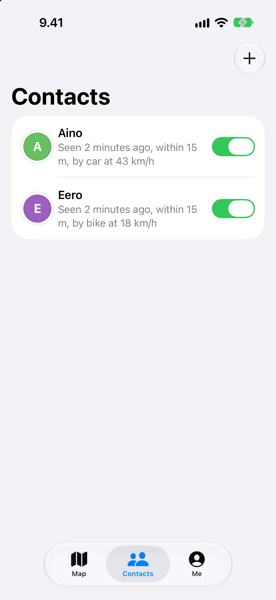
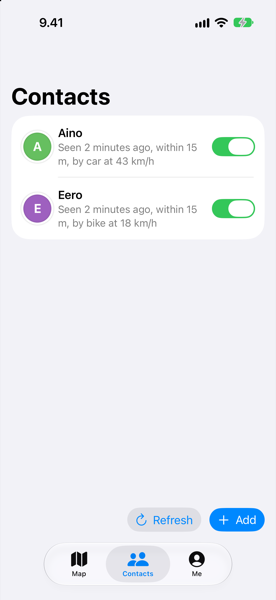
Move Contacts' Refresh and Add and the sheet buttons down
Refresh and Add sat at the top of the Contacts screen, out of reach of
the thumb on a phone. Both now sit at the bottom right, above the tab
bar, like the map's framing button. On iOS the Add contact sheet, the
QR scanner and the photo crop had Cancel, Add and Choose in the top
bar; they move to the bottom too, as wide buttons. iOS keeps pull to
refresh as well. Android's dialogs had their buttons at the bottom
already.

CLAUDE.md gains the rule that controls go at the bottom of the screen,
or at least never in the top bar. The README and the App Review notes
say Add where they said +, and the Contacts screenshots for the README
and both stores are redone.

Build 11 for TestFlight and version code 8 for closed testing.

Prompts behind this commit, as given to Claude Code
(model claude-opus-5-5, effort xhigh):

51.
> contacts refresh and add button are in top of the screen. put them
> and future interactable things bottom for a phone app like this or at
> least not in top

(Move the iOS sheets' top-bar buttons to the bottom too?)
> Move them too (Recommended)

diff --git a/ios/Mismeet/UI/PhotoCropView.swift b/ios/Mismeet/UI/PhotoCropView.swift
@@ -21,65 +21,67 @@ struct PhotoCropView: View {
     private var cover: CGFloat { side / min(image.size.width, image.size.height) }
 
     var body: some View {
-        NavigationStack {
-            let scale = cover * min(max(zoom * gestureZoom, 1), Self.maxZoom)
-            let shown = clamp(CGSize(width: offset.width + gestureOffset.width, height: offset.height + gestureOffset.height), scale: scale)
-            // The picture is an overlay, so its zoomed size never stretches the area the circle is measured from.
-            Color.black
-                .overlay {
-                    Image(uiImage: image)
-                        .resizable()
-                        .frame(width: image.size.width * scale, height: image.size.height * scale)
-                        .offset(shown)
-                }
-                .overlay {
-                    Rectangle()
-                        .fill(.black.opacity(0.6))
-                        .overlay { Circle().frame(width: side, height: side).blendMode(.destinationOut) }
-                        .compositingGroup()
-                }
-                .overlay {
-                    Circle()
-                        .stroke(.white, lineWidth: 2)
-                        .frame(width: side, height: side)
-                }
-                .clipped()
-            .contentShape(Rectangle())
-            .onGeometryChange(for: CGSize.self) { $0.size } action: { area = $0 }
-            .gesture(
-                MagnifyGesture()
-                    .updating($gestureZoom) { value, state, _ in state = value.magnification }
-                    .onEnded { value in
-                        zoom = min(max(zoom * value.magnification, 1), Self.maxZoom)
-                        offset = clamp(offset, scale: cover * zoom)
-                    }
-                    .simultaneously(with: DragGesture()
-                        .updating($gestureOffset) { value, state, _ in state = value.translation }
-                        .onEnded { value in
-                            offset = clamp(
-                                CGSize(width: offset.width + value.translation.width, height: offset.height + value.translation.height),
-                                scale: cover * zoom
-                            )
-                        }
-                    )
-            )
-            .background(.black)
-            .toolbarBackground(.black, for: .navigationBar)
-            .toolbarBackground(.visible, for: .navigationBar)
-            .toolbarColorScheme(.dark, for: .navigationBar)
-            .toolbar {
-                ToolbarItem(placement: .cancellationAction) {
-                    Button("Cancel") { dismiss() }
-                }
-                ToolbarItem(placement: .confirmationAction) {
-                    Button("Choose") {
-                        if let square = crop() { onChoose(square) }
-                        dismiss()
-                    }
-                    .disabled(area == .zero)
-                }
+        let scale = cover * min(max(zoom * gestureZoom, 1), Self.maxZoom)
+        let shown = clamp(CGSize(width: offset.width + gestureOffset.width, height: offset.height + gestureOffset.height), scale: scale)
+        // The picture is an overlay, so its zoomed size never stretches the area the circle is measured from.
+        Color.black
+            .overlay {
+                Image(uiImage: image)
+                    .resizable()
+                    .frame(width: image.size.width * scale, height: image.size.height * scale)
+                    .offset(shown)
             }
+            .overlay {
+                Rectangle()
+                    .fill(.black.opacity(0.6))
+                    .overlay { Circle().frame(width: side, height: side).blendMode(.destinationOut) }
+                    .compositingGroup()
+            }
+            .overlay {
+                Circle()
+                    .stroke(.white, lineWidth: 2)
+                    .frame(width: side, height: side)
+            }
+            .clipped()
+        .contentShape(Rectangle())
+        .onGeometryChange(for: CGSize.self) { $0.size } action: { area = $0 }
+        .gesture(
+            MagnifyGesture()
+                .updating($gestureZoom) { value, state, _ in state = value.magnification }
+                .onEnded { value in
+                    zoom = min(max(zoom * value.magnification, 1), Self.maxZoom)
+                    offset = clamp(offset, scale: cover * zoom)
+                }
+                .simultaneously(with: DragGesture()
+                    .updating($gestureOffset) { value, state, _ in state = value.translation }
+                    .onEnded { value in
+                        offset = clamp(
+                            CGSize(width: offset.width + value.translation.width, height: offset.height + value.translation.height),
+                            scale: cover * zoom
+                        )
+                    }
+                )
+        )
+        .safeAreaInset(edge: .bottom) {
+            HStack(spacing: 12) {
+                Button { dismiss() } label: {
+                    Text("Cancel").frame(maxWidth: .infinity)
+                }
+                .buttonStyle(.bordered)
+                Button {
+                    if let square = crop() { onChoose(square) }
+                    dismiss()
+                } label: {
+                    Text("Choose").frame(maxWidth: .infinity)
+                }
+                .buttonStyle(.borderedProminent)
+                .disabled(area == .zero)
+            }
+            .controlSize(.large)
+            .padding()
         }
+        .background(.black)
+        .preferredColorScheme(.dark)
     }
 
     /// Keeps the picture covering the whole circle.

diff --git a/ios/Mismeet/UI/ContactsView.swift b/ios/Mismeet/UI/ContactsView.swift
@@ -28,10 +28,18 @@ struct ContactsView: View {
                 }
             }
             .navigationTitle("Contacts")
-            .toolbar {
-                ToolbarItem(placement: .primaryAction) {
+            .safeAreaInset(edge: .bottom) {
+                HStack(spacing: 12) {
+                    Spacer()
+                    Button("Refresh", systemImage: "arrow.clockwise") {
+                        Task { await model.refresh() }
+                    }
+                    .buttonStyle(.bordered)
+                    .disabled(model.isRefreshing)
                     Button("Add", systemImage: "plus") { adding = AddRequest() }
+                        .buttonStyle(.borderedProminent)
                 }
+                .padding()
             }
             .refreshable { await model.refresh() }
             .sheet(item: $adding) { AddContactView(invite: $0.invite) }
@@ -163,31 +171,40 @@ struct AddContactView: View {
                         scanning = false
                     }
                     .ignoresSafeArea()
+                    .safeAreaInset(edge: .bottom) {
+                        Button("Cancel") { scanning = false }
+                            .buttonStyle(.borderedProminent)
+                            .controlSize(.large)
+                            .padding()
+                    }
                     .navigationTitle("Scan the invite")
                     .navigationBarTitleDisplayMode(.inline)
-                    .toolbar {
-                        ToolbarItem(placement: .cancellationAction) {
-                            Button("Cancel") { scanning = false }
-                        }
-                    }
                 }
             }
-            .toolbar {
-                ToolbarItem(placement: .cancellationAction) {
-                    Button("Cancel") { dismiss() }
-                }
-                ToolbarItem(placement: .confirmationAction) {
-                    Button("Add") {
-                        do {
-                            try model.addContact(invite: invite, name: name)
-                            dismiss()
-                        } catch {
-                            self.error = error.localizedDescription
-                        }
+            .safeAreaInset(edge: .bottom) {
+                HStack(spacing: 12) {
+                    Button { dismiss() } label: {
+                        Text("Cancel").frame(maxWidth: .infinity)
                     }
+                    .buttonStyle(.bordered)
+                    Button { add() } label: {
+                        Text("Add").frame(maxWidth: .infinity)
+                    }
+                    .buttonStyle(.borderedProminent)
                     .disabled(invite.trimmingCharacters(in: .whitespacesAndNewlines).isEmpty)
                 }
+                .controlSize(.large)
+                .padding()
             }
+        }
+    }
+
+    private func add() {
+        do {
+            try model.addContact(invite: invite, name: name)
+            dismiss()
+        } catch {
+            self.error = error.localizedDescription
         }
     }
 }

diff --git a/android/app/src/main/kotlin/app/mismeet/android/ui/ContactsScreen.kt b/android/app/src/main/kotlin/app/mismeet/android/ui/ContactsScreen.kt
@@ -13,6 +13,7 @@ import androidx.compose.foundation.clickable
 import androidx.compose.foundation.layout.Arrangement
 import androidx.compose.foundation.layout.Column
 import androidx.compose.foundation.layout.Row
+import androidx.compose.foundation.layout.fillMaxSize
 import androidx.compose.foundation.layout.fillMaxWidth
 import androidx.compose.foundation.layout.padding
 import androidx.compose.foundation.layout.size
@@ -22,6 +23,7 @@ import androidx.compose.material3.AlertDialog
 import androidx.compose.material3.Button
 import androidx.compose.material3.Card
 import androidx.compose.material3.MaterialTheme
+import androidx.compose.material3.OutlinedButton
 import androidx.compose.material3.OutlinedTextField
 import androidx.compose.material3.Switch
 import androidx.compose.material3.Text
@@ -76,18 +78,12 @@ fun ContactsScreen(model: AppModel, modifier: Modifier = Modifier) {
         picker.launch(PickVisualMediaRequest(ActivityResultContracts.PickVisualMedia.ImageOnly))
     }
 
-    Column(modifier.padding(16.dp), verticalArrangement = Arrangement.spacedBy(12.dp)) {
-        Row(Modifier.fillMaxWidth(), horizontalArrangement = Arrangement.SpaceBetween, verticalAlignment = Alignment.CenterVertically) {
-            Text("Contacts", style = MaterialTheme.typography.headlineMedium)
-            Row(horizontalArrangement = Arrangement.spacedBy(8.dp)) {
-                TextButton(onClick = { model.refreshNow() }) { Text("Refresh") }
-                Button(onClick = { adding = "" }) { Text("Add") }
-            }
-        }
+    Column(modifier.fillMaxSize().padding(16.dp), verticalArrangement = Arrangement.spacedBy(12.dp)) {
+        Text("Contacts", style = MaterialTheme.typography.headlineMedium)
         if (state.contacts.isEmpty()) {
             Text("Add a contact from the invite they sent you.", style = MaterialTheme.typography.bodyMedium)
         }
-        LazyColumn(verticalArrangement = Arrangement.spacedBy(8.dp)) {
+        LazyColumn(Modifier.weight(1f), verticalArrangement = Arrangement.spacedBy(8.dp)) {
             items(state.contacts, key = { it.id }) { contact ->
                 ContactRow(
                     contact = contact,
@@ -98,6 +94,10 @@ fun ContactsScreen(model: AppModel, modifier: Modifier = Modifier) {
                     onOpenMap = { openMap(context, contact) },
                 )
             }
+        }
+        Row(Modifier.fillMaxWidth(), horizontalArrangement = Arrangement.spacedBy(8.dp, Alignment.End)) {
+            OutlinedButton(onClick = { model.refreshNow() }) { Text("Refresh") }
+            Button(onClick = { adding = "" }) { Text("Add") }
         }
     }
 

diff --git a/design/app-store/listing.md b/design/app-store/listing.md
@@ -55,7 +55,7 @@ Mismeet needs no account: each install creates its own key on the device.
 
 Location: sharing is off until the user turns on Share my location on the Me tab; until then the app only shows contacts and needs no location permission. Turned on, it asks for location while in use, then Always. With Always it publishes the user's position, end-to-end encrypted, on significant location changes while the app is closed, so that the contacts the user chose see a recent position. It publishes only for contacts the user added and left sharing on, and nothing when there are none.
 
-To try it, use two devices. On each, open the Me tab to show the invite QR code. On the other, open Contacts, tap +, then Scan QR code, and add it. Within a minute each phone shows the other on the map. With one device, the Me tab shows the invite and the map shows your own position.
+To try it, use two devices. On each, open the Me tab to show the invite QR code. On the other, open Contacts, tap Add, then Scan QR code, and add it. Within a minute each phone shows the other on the map. With one device, the Me tab shows the invite and the map shows your own position.
 ```
 
 ## Answers to App Review's request for more information
@@ -70,7 +70,7 @@ Mismeet lets people share their location with the family members and friends the
 Setup and main features
 No account, login or sample files are needed.
 1. Open Mismeet, turn on Share my location on the Me tab and allow location access while using the app, then tap Allow location for Always, so that the position updates in the background.
-2. To add a contact, open the Me tab on their device to show its invite QR code. On yours, open Contacts, tap +, tap Scan QR code, scan it, type a name and tap Add. Do the same the other way round to share in both directions.
+2. To add a contact, open the Me tab on their device to show its invite QR code. On yours, open Contacts, tap Add, tap Scan QR code, scan it, type a name and tap Add. Do the same the other way round to share in both directions.
 3. Within about a minute the Map tab shows the contact's position together with yours, and the Contacts tab shows how long ago it was seen. Each contact has a switch to stop sharing your location with them, and swiping a contact removes it.
 With a single device, the Me tab shows the invite and the map shows your own position. Seeing a contact needs a second device running Mismeet, as in the screen recording.
 

diff --git a/PROMPTS.md b/PROMPTS.md
@@ -5,9 +5,21 @@ with its commit and pull request. Square brackets mark what was left out or reda
 commit without a prompts section is left out. This file is generated from the commit messages,
 so a change by hand is lost at the next commit.
 
-## Drop the relay list from the Me screen
+## Move Contacts' Refresh and Add and the sheet buttons down
 
 2026-10-26, [the commit that last changed this file](https://github.com/lambdakilo/mismeet/commits/main/PROMPTS.md), model claude-opus-5-5, effort xhigh.
+
+**51.**
+> contacts refresh and add button are in top of the screen. put them
+> and future interactable things bottom for a phone app like this or at
+> least not in top
+
+(Move the iOS sheets' top-bar buttons to the bottom too?)
+> Move them too (Recommended)
+
+## Drop the relay list from the Me screen
+
+2026-10-26, commit [0dbcb07](https://github.com/lambdakilo/mismeet/commit/0dbcb0797dc8c3c6076f4e0fa0ec6b13fff3d93c), model claude-opus-5-5, effort xhigh.
 
 **47.**
 > [pasted: 3 lines of terminal output with the phone's ABI list]

diff --git a/CLAUDE.md b/CLAUDE.md
@@ -51,6 +51,10 @@ follows it, and a protocol change edits the spec first, in the same change.
   only watches its contacts, publishes nothing, not even its relay list, and needs no location
   permission. The "Share my location" switch on the Me screen turns it on. Keep every
   publishing path behind `sharingEnabled`.
+- Controls go at the bottom of the screen, where a thumb reaches them, or at least never in the
+  top bar: the map's framing button, the Contacts screen's Refresh and Add, and the buttons of
+  sheets and dialogs, such as Add contact and the photo crop, sit at the bottom, and only titles
+  stay at the top. New controls follow the same rule.
 - Never log a secret key, a decrypted payload or a contact's public key above debug level.
 - Bundle identifier `app.mismeet.ios`, Android `applicationId` `app.mismeet.android`. Changing
   one means changing it here and in the project files in the same commit.

diff --git a/README.md b/README.md
@@ -300,7 +300,7 @@ to fetch.
    then tap "Allow location" for "Always". The log on the same screen shows "Relay list:
    accepted by N of 3 relays".
 2. On the Android phone, open Me: its invite QR code is on screen. On the iPhone, Contacts >
-   "+" > "Scan QR code", scan it, give the contact a name and tap Add. The iPhone log shows
+   Add > "Scan QR code", scan it, give the contact a name and tap Add. The iPhone log shows
    "Location: accepted by N of 3 relays" within a few seconds.
 3. On the iPhone, open Me to show its QR code. On the Android phone, Contacts > Add > "Scan QR
    code", allow the camera, scan it, name the contact, Add. The row shows "Seen ... within N m"
